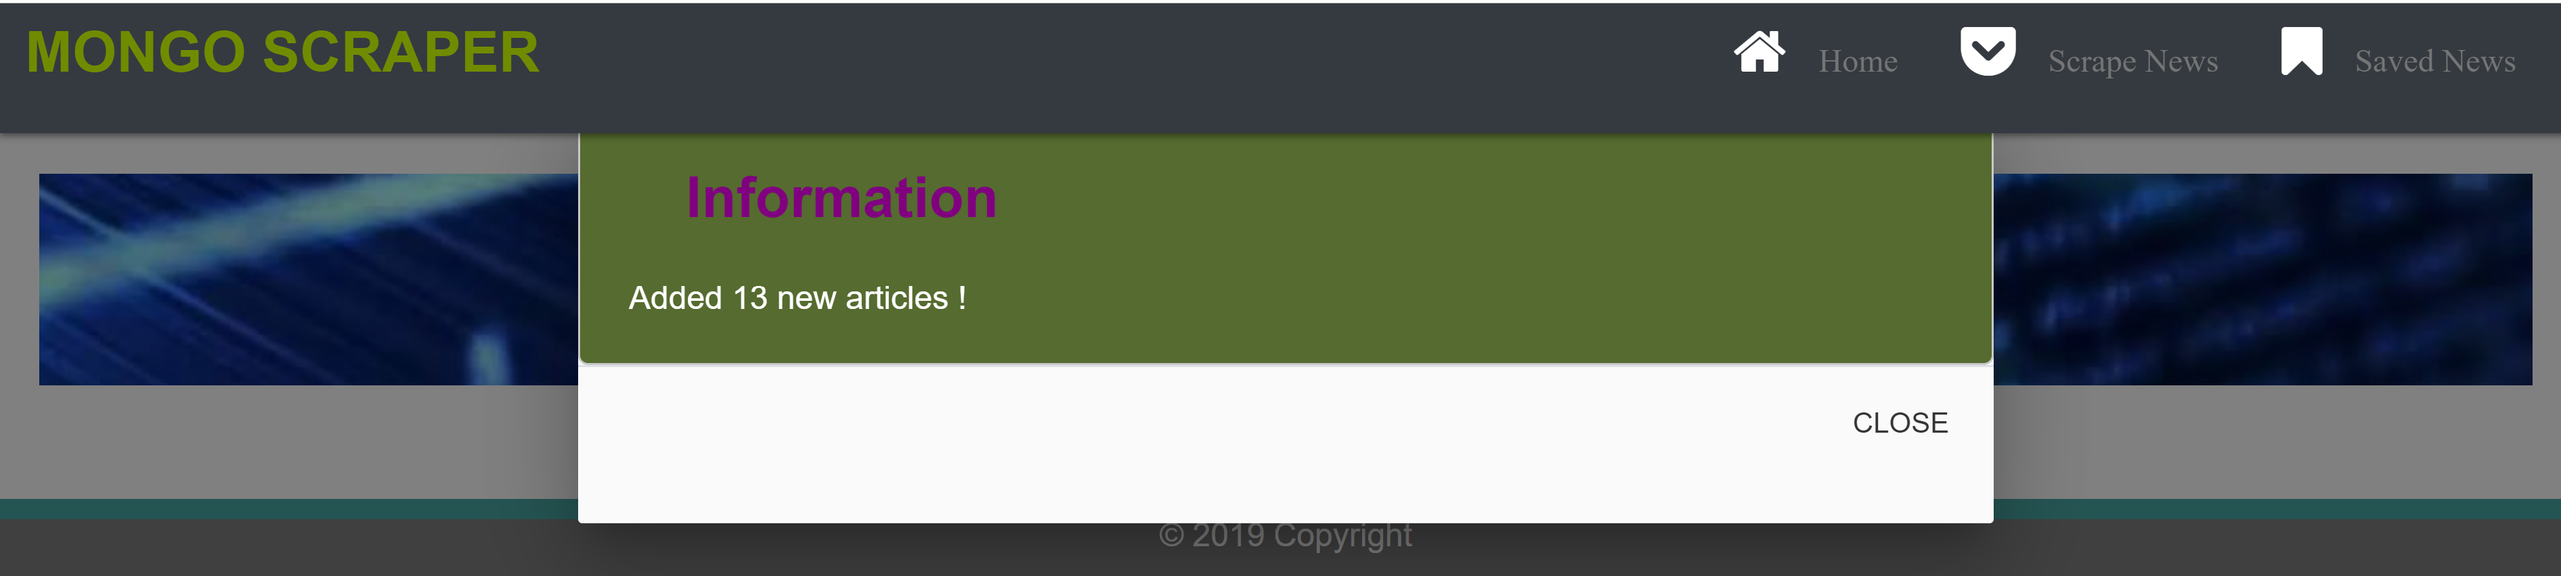
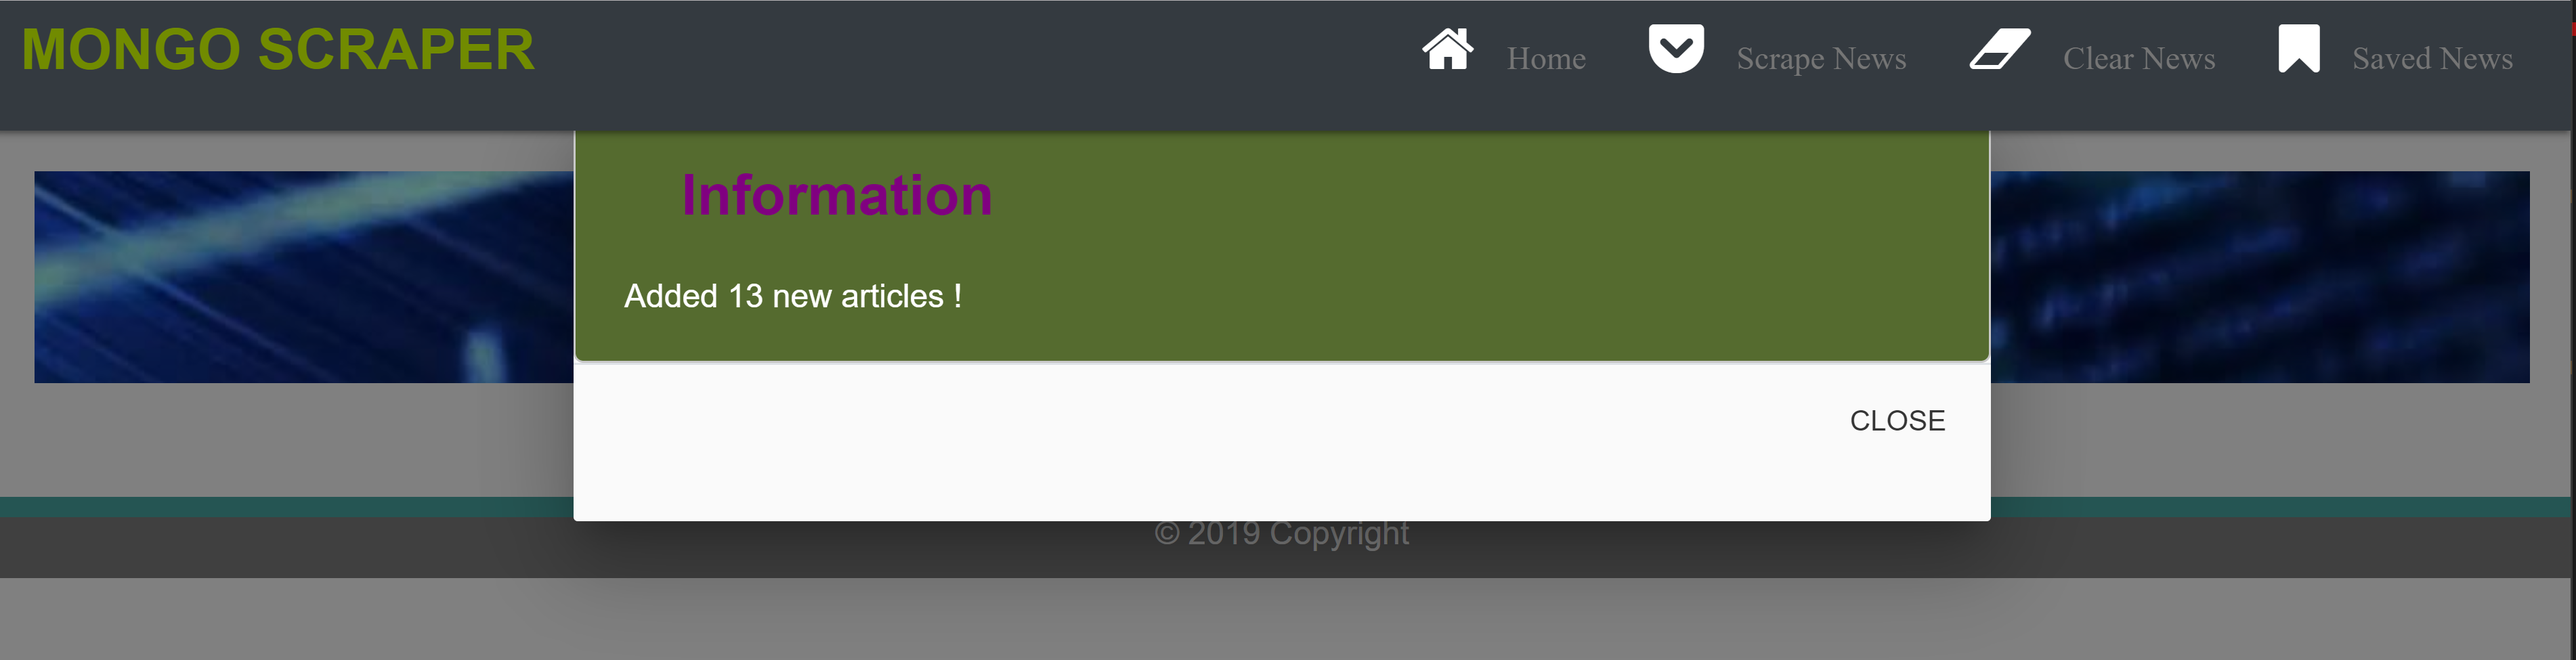
add clear news function

diff --git a/public/assets/js/newsScrape.js b/public/assets/js/newsScrape.js
@@ -162,11 +162,11 @@ $(document).ready(function(){
             .then(function(response) {
 
                 if(response.status === "success"){
-                $("#titleinput").val("");
-                $("#bodyinput").val("");
-                getNotes(id);
-                }else{
-                $("#inputMsg").append($("<p>").text(response.data));
+                    $("#titleinput").val("");
+                    $("#bodyinput").val("");
+                    getNotes(id);
+                } else{
+                    $("#inputMsg").append($("<p>").text(response.data));
                 }       
                 
             });
@@ -203,5 +203,26 @@ $(document).ready(function(){
         });
     });
 
+    $(document).on("click",".clearNews",function(event){
+
+        event.preventDefault();
+        
+       console.log("clear click");
+
+        $.ajax({
+            method: "DELETE",
+            url: "/clearNews/",
+            data: ""
+        })
+        .then(function(response) {
+            console.log("delete res",response)
+            if(response.status === "success"){
+               window.location.href="/";
+            }else{
+               console.log("clear article err",response.data);
+            }     
+            
+        });
+    });
 
 })

diff --git a/routes/router.js b/routes/router.js
@@ -238,12 +238,37 @@ app.get("/notes/:id",(req,res) =>{
 //use note id to delete a note
 app.delete("/deleteNotes/:id",(req,res) =>{
 
-  db.Note.remove({_id:req.params.id})
+  db.Note.deleteOne({_id:req.params.id})
   .then( dbNote =>{
      
      res.json({
       status: "success",
       data: dbNote});
+  })
+  .catch( (err) => {
+    res.json({
+      status:"fail",
+      err: err.message
+    })
+  })
+});
+
+
+//clear all articles
+app.delete("/clearNews",(req,res) =>{
+
+  db.News.deleteMany({})
+  .then( dbNews =>{
+     
+     res.json({
+      status: "success",
+      data: dbNews});
+  })
+  .catch( (err) => {
+      res.json({
+        status:"fail",
+        data: err.message
+      })
   })
 
 });

diff --git a/README.md b/README.md
@@ -12,17 +12,16 @@ The news scrape is a web app that gets the latest news from NY times website and
 
      * URL - the url to the original article (user can click this link to see the whole story)
 
-  2. User can select articles and save them. All the saved articles can be displayed on the saved news page. 
+  2. User can delete all articles by clicking clear News button.
+
+  3. User can select articles and save them. All the saved articles can be displayed on the saved news page. 
      User also can unsave an article later.
 
-  3. Users can should also be able to leave comments on the articles displayed and revisit them later. The comments are saved to the database as well and associated with their articles. Users also are able to delete comments left on articles. All stored comments are visible to every user.
+  4. Users can should also be able to leave comments on the articles displayed and revisit them later. The comments are saved to the database as well and associated with their articles. Users also are able to delete comments left on articles. All stored comments are visible to every user.
 
 
 ### App Live Link
-
-
-### APP HEROKU GIT LINK
-
+https://sleepy-brushlands-80835.herokuapp.com/
 
 ### App GitHub Link
 https://github.com/helenhao888/News-Scrape.git
@@ -82,7 +81,9 @@ https://github.com/helenhao888/News-Scrape.git
    * Validate input fields. 
    ![input validation](public/assets/img/inputValidation.png)
   
-
+8. Clear News
+   * After clearing news
+   ![clear news](public/assets/img/clearedNews.png)
 #### Directory structure
 ```
 │ 
